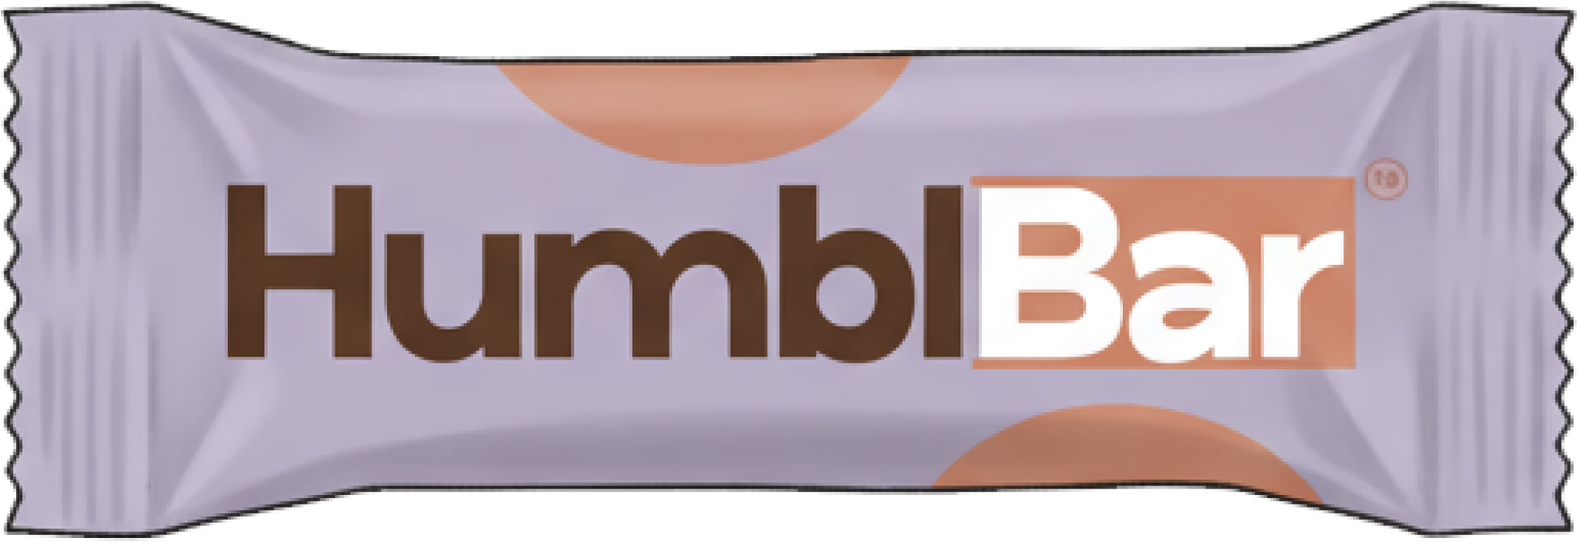
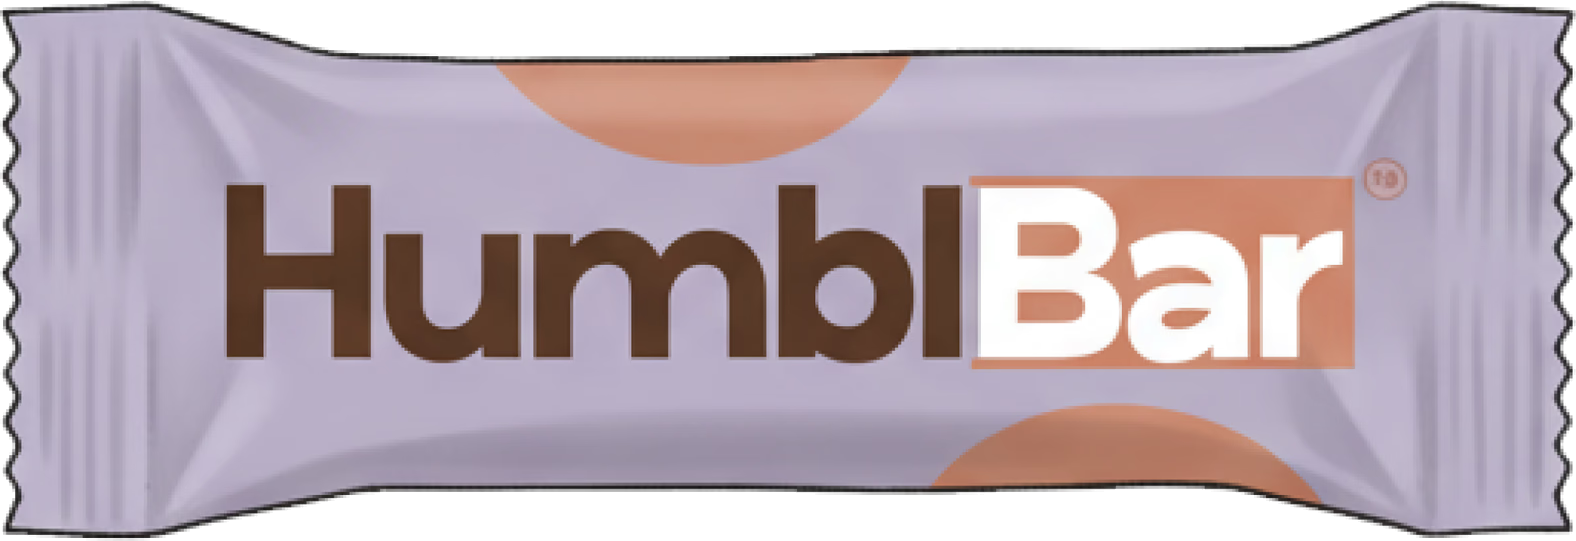
Optimize mobile sticker rendering, crisp edges, and retina srcSet

diff --git a/app/globals.css b/app/globals.css
@@ -203,13 +203,13 @@ body {
   justify-content: center;
   align-items: center;
   width: 100%;
-  margin-bottom: 20px;
+  margin-bottom: 22px;
 }
 
 .hero-bar-sticker-large {
   position: relative;
-  width: 250px;
-  max-width: 100%;
+  width: 320px;
+  max-width: 90vw;
   display: flex;
   flex-direction: column;
   align-items: center;
@@ -219,32 +219,36 @@ body {
   cursor: pointer;
   user-select: none;
   transition: transform 0.35s cubic-bezier(0.34, 1.56, 0.64, 1);
+  -webkit-tap-highlight-color: transparent;
 }
 
 .hero-bar-sticker-large:hover {
-  transform: scale(1.05) rotate(1deg);
+  transform: scale(1.04) rotate(1deg);
 }
 
 .hero-bar-sticker-large .bar-wrapper-visual {
   position: relative;
   width: 100%;
-  filter: drop-shadow(0 10px 24px rgba(0, 0, 0, 0.5));
+  filter: drop-shadow(0 12px 28px rgba(0, 0, 0, 0.55));
   transition: all 0.35s cubic-bezier(0.34, 1.56, 0.64, 1);
-  transform: rotate(-3deg);
+  transform: rotate(-2.5deg) translateZ(0);
+  -webkit-backface-visibility: hidden;
+  backface-visibility: hidden;
+  will-change: transform;
 }
 
 .hero-bar-sticker-large.opened .bar-wrapper-visual {
-  transform: rotate(0deg) scale(1.06);
-  filter: drop-shadow(0 14px 28px rgba(0, 0, 0, 0.6));
+  transform: rotate(0deg) scale(1.05) translateZ(0);
+  filter: drop-shadow(0 16px 32px rgba(0, 0, 0, 0.65));
 }
 
 /* Pure clean text hint (no box) */
 .bar-hint-text {
   font-family: var(--font-hand);
-  font-size: 0.96rem;
+  font-size: 1rem;
   font-weight: 700;
-  color: rgba(255, 255, 255, 0.85);
-  margin-bottom: 6px;
+  color: rgba(255, 255, 255, 0.9);
+  margin-bottom: 8px;
   letter-spacing: 0.02em;
   white-space: nowrap;
   animation: pulseHint 2s ease-in-out infinite;
@@ -262,10 +266,10 @@ body {
 /* Pure clean text tagline revealed below the bar (NO BOX, zero overlap) */
 .bar-reveal-text {
   font-family: var(--font-hand);
-  font-size: 0.98rem;
+  font-size: 1.02rem;
   font-weight: 700;
   color: #FFFFFF;
-  margin-top: 8px;
+  margin-top: 10px;
   letter-spacing: 0.01em;
   opacity: 0;
   max-height: 0;
@@ -287,22 +291,25 @@ body {
   object-fit: contain;
   display: block;
   background: transparent !important;
+  transform: translateZ(0);
+  -webkit-backface-visibility: hidden;
+  backface-visibility: hidden;
 }
 
 @media (max-width: 640px) {
   .hero-bar-top-container {
-    margin-bottom: 16px;
+    margin-bottom: 18px;
   }
   .hero-bar-sticker-large {
-    width: 200px;
+    width: min(290px, 86vw);
   }
   .bar-hint-text {
-    font-size: 0.88rem;
-    margin-bottom: 4px;
+    font-size: 0.92rem;
+    margin-bottom: 6px;
   }
   .bar-reveal-text {
-    font-size: 0.9rem;
-    margin-top: 6px;
+    font-size: 0.95rem;
+    margin-top: 8px;
   }
 }
 

diff --git a/app/page.js b/app/page.js
@@ -168,7 +168,14 @@ export default function HomePage() {
                 )}
 
                 <div className="bar-wrapper-visual">
-                  <img src="/sticker_bar_hd.png?v=6" alt="HumblBar Clean Protein Bar" className="headline-bar-img" />
+                  <img
+                    src="/sticker_bar_clean.png?v=8"
+                    srcSet="/sticker_bar_clean.png?v=8 1x, /sticker_bar_hd.png?v=8 2x"
+                    alt="HumblBar Clean Protein Bar"
+                    className="headline-bar-img"
+                    loading="eager"
+                    decoding="async"
+                  />
                 </div>
 
                 {/* Pure text tagline revealed below the bar - NO BOX, no overlap */}
